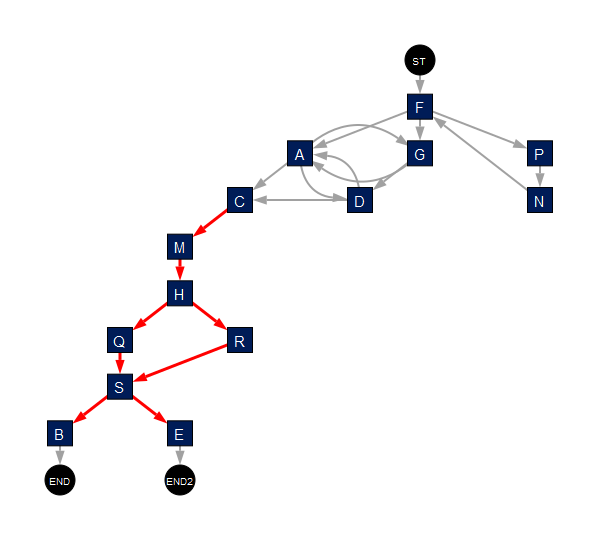
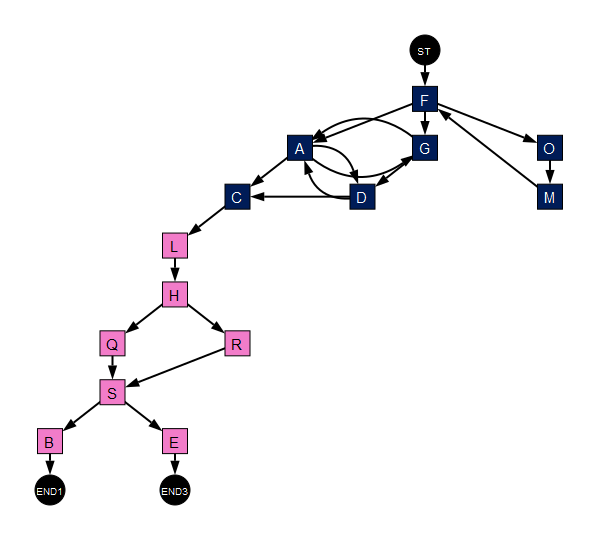
Modifiers ends

Changed region(s): [[0.06, 0.0593, 0.96, 0.9481]]

diff --git a/proj/templates/test.html b/proj/templates/test.html
@@ -221,8 +221,14 @@
 <!--                                    <strong>ST : Start</strong>-->
 <!--                            </div>-->
                             {% for i in vsub_c2.keys() %}
+                                {% if i in diffclus['g1'] %}
+                                    <div class="col-md-2" style="margin-bottom: 2px; word-wrap: break-word; padding:0px 10px; color: #f0a202" align="left">
+                                {% elif i in diffclus ['g2'] %}
+                                    <div class="col-md-2" style="margin-bottom: 2px; word-wrap: break-word; padding:0px 10px; color: #f27cc9" align="left">
+                                {% else %}
                                     <div class="col-md-2" style="margin-bottom: 2px; word-wrap: break-word; padding:0px 10px;" align="left">
-                                        <strong>{{ i }}:</strong>{{ vsub_c2[i] }}
+                                {% endif %}
+                                       <strong>{{ i }}:</strong>{{ vsub_c2[i] }}
                                     </div>
                             {% endfor %}
 <!--                            <div class="col-md-2" style="margin-bottom: 2px;">-->

diff --git a/proj/controllers/graphsconstr.py b/proj/controllers/graphsconstr.py
@@ -24,8 +24,10 @@ def get_vertices(df, seq_df_colname='Sequence'):
     verts = {i: act for i, act in enumerate(df['act seq'].explode().dropna().drop_duplicates().sort_values())}
     vertices = {i: rotulo(i) for i in verts.keys()}
     #print(vertices, verts)
-    # vertices[get_key('Start_Process', verts)] = 'ST'
-    # vertices[get_key('End_Process', verts)] = 'END'
+    vertices[get_key('ST', verts)] = 'ST'
+    vertices[get_key('END1', verts)] = 'END1'
+    vertices[get_key('END2', verts)] = 'END2'
+    vertices[get_key('END3', verts)] = 'END3'
     return vertices, verts
 
 
@@ -76,7 +78,6 @@ def get_diffs(result, g_id1, g_id2, verts, vertices):
 def find_end_graph(edges_ids, vertices):
     cnt_end = 1
     cnt_st = 1
-    print(edges_ids)
     for edg in edges_ids:
         if edg[1] not in [arst[0] for arst in edges_ids]:
             vertices[edg[1]] = 'END' + str(cnt_end) if cnt_end > 1 else 'END'
@@ -93,8 +94,9 @@ def get_vert_ativ(vertices, edges_ids):
 
 def view_config(g, vertices, edges_ids):
     def sizes(op1, op2, op3):
-        return [op1 if v.find('ST') != -1 or v.find('END') != -1
-                else op2 if get_key(v, vertices) not in get_vert_ativ(vertices, edges_ids) else op3 for v in vertices.values()]
+        vertsin = get_vert_ativ(vertices, edges_ids)
+        return [op1 if v.find('ST') != -1 or v.find('END') != -1 and get_key(v, vertices) not in vertsin
+                else op2 if get_key(v, vertices) not in vertsin else op3 for v in vertices.values()]
 
     vshape = ["circle" if edge.find('ST') != -1 or edge.find('END') != -1 else "rectangle" for edge in vertices.values()]
     layout = g.layout_reingold_tilford(root=[edges_ids[0][0]])
@@ -104,7 +106,7 @@ def view_config(g, vertices, edges_ids):
 
 def createimgtrans(c1, c2, nome):
     result = default.pdirectory[default.datafilter['arq']].copy()
-    # result['Sequence'] = result['Sequence'].apply(lambda x: 'Start_Process ' + x + ' End_Process')
+    #result['Sequence'] = result['Sequence'].apply(lambda x: 'Start_Process ' + x + ' End_Process')
     vertices, verts = get_vertices(result)
 
     # recebendo as diferenças entre o cluster c1 e o cluster c2. Lista do que tem em c1 que não tem em c2
@@ -112,8 +114,7 @@ def createimgtrans(c1, c2, nome):
 
     _, edlog_ids = get_edges(result, verts, vertices)
     edges_labels, edges_ids = get_edges(result[result.cluster == int(c1)], verts, vertices)
-    find_end_graph(edges_ids, vertices)
-    print(vertices)
+    #find_end_graph(edges_ids, vertices)
     # order_edges(edges_ids, vertices, edges_labels)
     ord_edges = list(set(edlog_ids) - set(edges_ids)) + edges_ids
     g = get_graph(vertices, list(set(ord_edges) - set(edges_ids)) + edges_ids)
@@ -136,7 +137,7 @@ def createimgtrans(c1, c2, nome):
 def get_diff_cluster(vertices, edges_ids, edges_ids2):
     dif1 = get_vert_ativ(vertices, edges_ids)  # nao tem no C1
     dif2 = get_vert_ativ(vertices, edges_ids2)  # nao tem no C2
-    return [i for i in dif2 if i not in dif1 and vertices[i] != 'ST' and vertices[i] != 'END']
+    return [i for i in dif2 if i not in dif1 and vertices[i] != 'ST' and vertices[i].find('END') == -1]
 
 
 def createimgativs(c1, c2, nome):
@@ -148,7 +149,7 @@ def createimgativs(c1, c2, nome):
     edges_labels, edges_ids = get_edges(result[result.cluster == int(c1)], verts, vertices)
     _, edges_ids2 = get_edges(result[result.cluster == int(c2)], verts, vertices)
     # order_edges(edges_ids, vertices, edges_labels)
-    find_end_graph(edges_ids, vertices)
+    #find_end_graph(edges_ids, vertices)
     g = get_graph(vertices, list(set(edlog_ids) - set(edges_ids)) + edges_ids)
     g.es['color'] = ['white' if edge.tuple not in edges_ids else 'black' for edge in g.es]
 
@@ -159,6 +160,8 @@ def createimgativs(c1, c2, nome):
     lcolor = ['black' if n in get_diff_cluster(vertices, edges_ids, edges_ids2) else 'white' for n in vertices.keys()]
     sizev, sizel, shapev, layout = view_config(g, vertices, edges_ids)
     vsub = {vertices[k]: verts[k] for k in vertices.keys()}
+    diffclus = [vertices[k] for k in diffclus]
+    print(diffclus)
     plot(g, layout=layout, vertex_shape=shapev, vertex_label_color=lcolor, vertex_size=sizev, edge_width=2, margin=50,
          vertex_label_size=sizel, vertex_color=atcolor, bbox=(600, 540), keep_aspect_ratio=False, target='proj/static/graphs/' + nome + '.png')
 

diff --git a/proj/controllers/default.py b/proj/controllers/default.py
@@ -25,7 +25,7 @@ def test():
     imageboost = False
     c1 = -1
     c2 = -1
-    diffclus = []
+    diffclus = {'g1': [], 'g2':[]}
     vsub_c1 = {}
     vsub_c2 = {}
     umcsv = Directory()
@@ -52,13 +52,14 @@ def test():
             imageboost = True
             if filterchoice.radialcircle.data == 'activ':  # exibindo atividades
                 try:
-                    vsub_c1, diffclus = graphsconstr.createimgativs(c1, c2, "g1")
-                    vsub_c2, diffclus = graphsconstr.createimgativs(c2, c1, "g2")
+                    vsub_c1, diffclus['g1'] = graphsconstr.createimgativs(c1, c2, "g1")
+                    vsub_c2, diffclus['g2'] = graphsconstr.createimgativs(c2, c1, "g2")
                 except Exception as e:
                     print("OLHA O ERRO: ", e)
                     imageboost = False
             else:  # exibindo transições
                 try:
+
                     vsub_c1 = graphsconstr.createimgtrans(c1, c2, "g1")
                     vsub_c2 = graphsconstr.createimgtrans(c2, c1, "g2")
                 except Exception as e:
@@ -66,4 +67,4 @@ def test():
                     imageboost = False
         filterchoice.updatecombo(datafilter['cbxlist'])
     return render_template("test.html", umcsv=umcsv, filterchoice=filterchoice, imageboost=imageboost,
-                           c1=c1, c2=c2, filename=datafilter['arq'], vsub_c1=vsub_c1, vsub_c2=vsub_c2)
+                           c1=c1, c2=c2, filename=datafilter['arq'], vsub_c1=vsub_c1, vsub_c2=vsub_c2, diffclus=diffclus)
